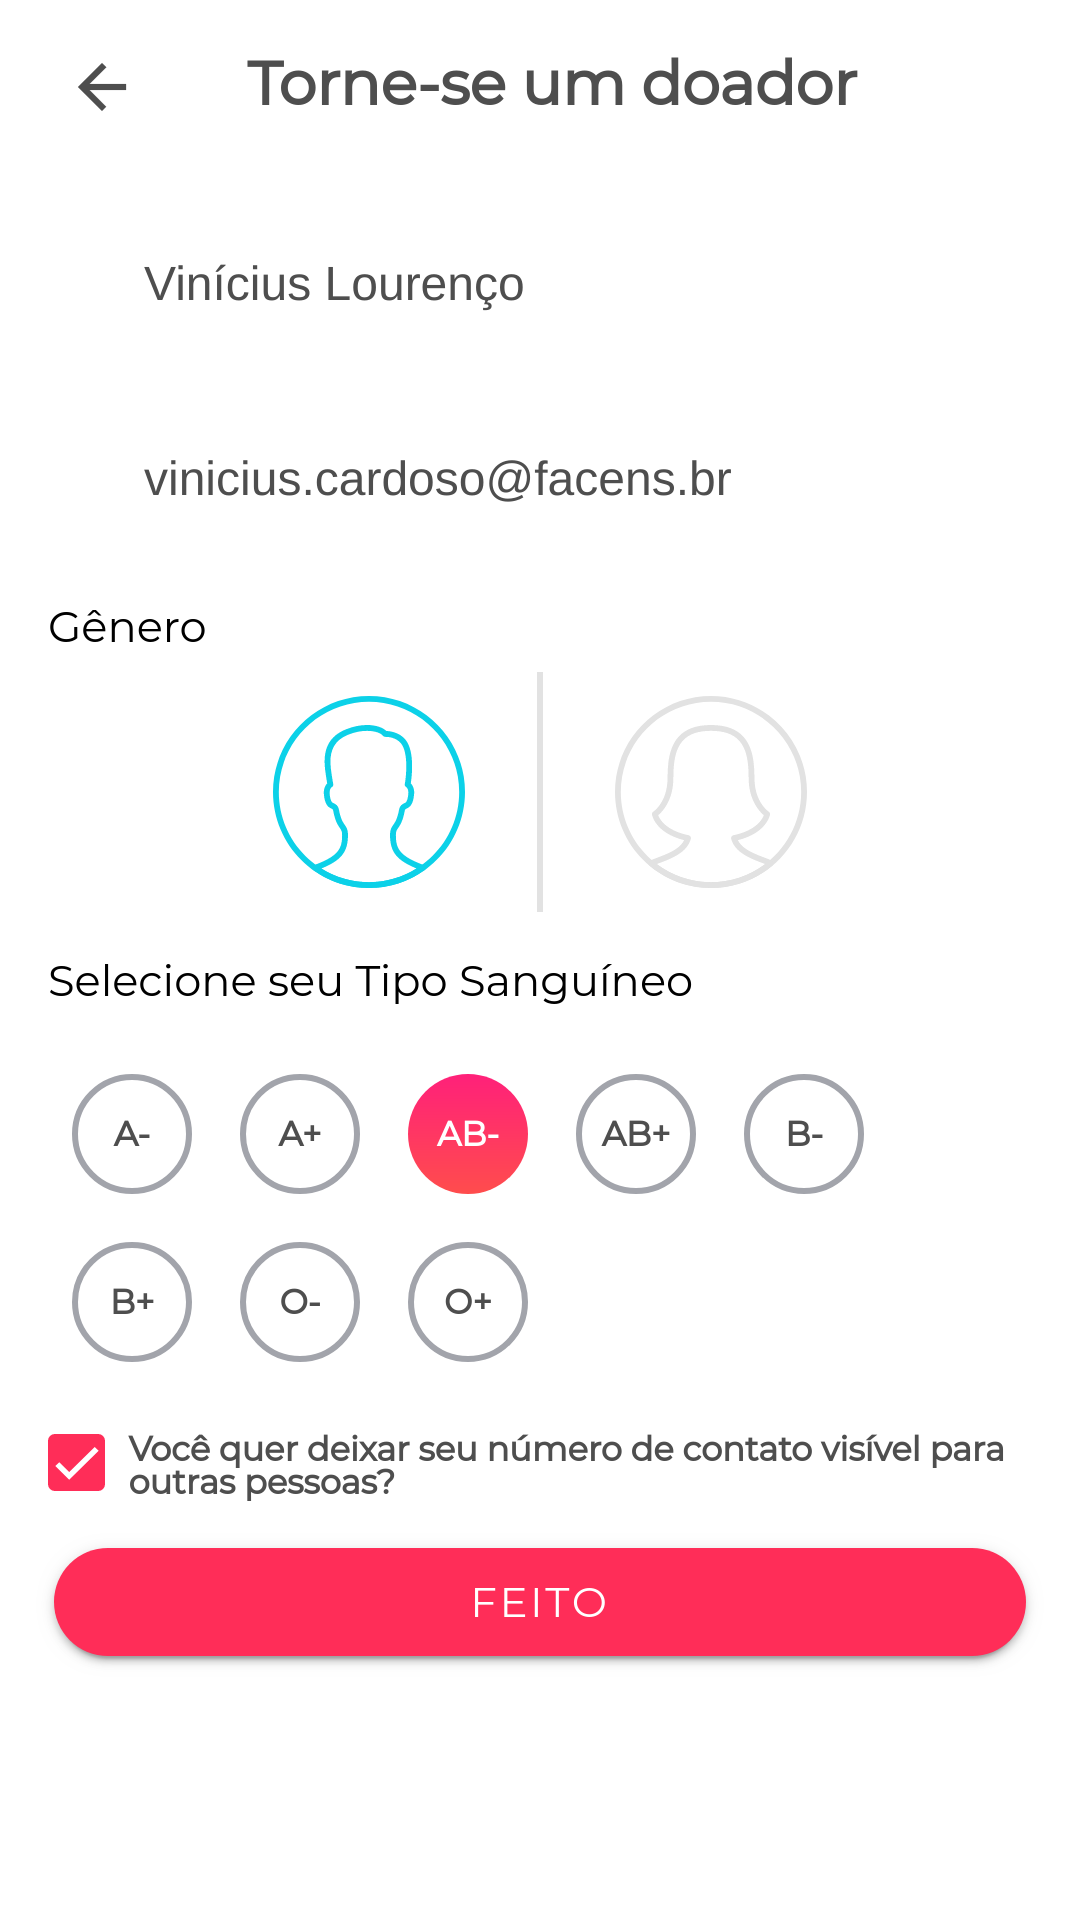
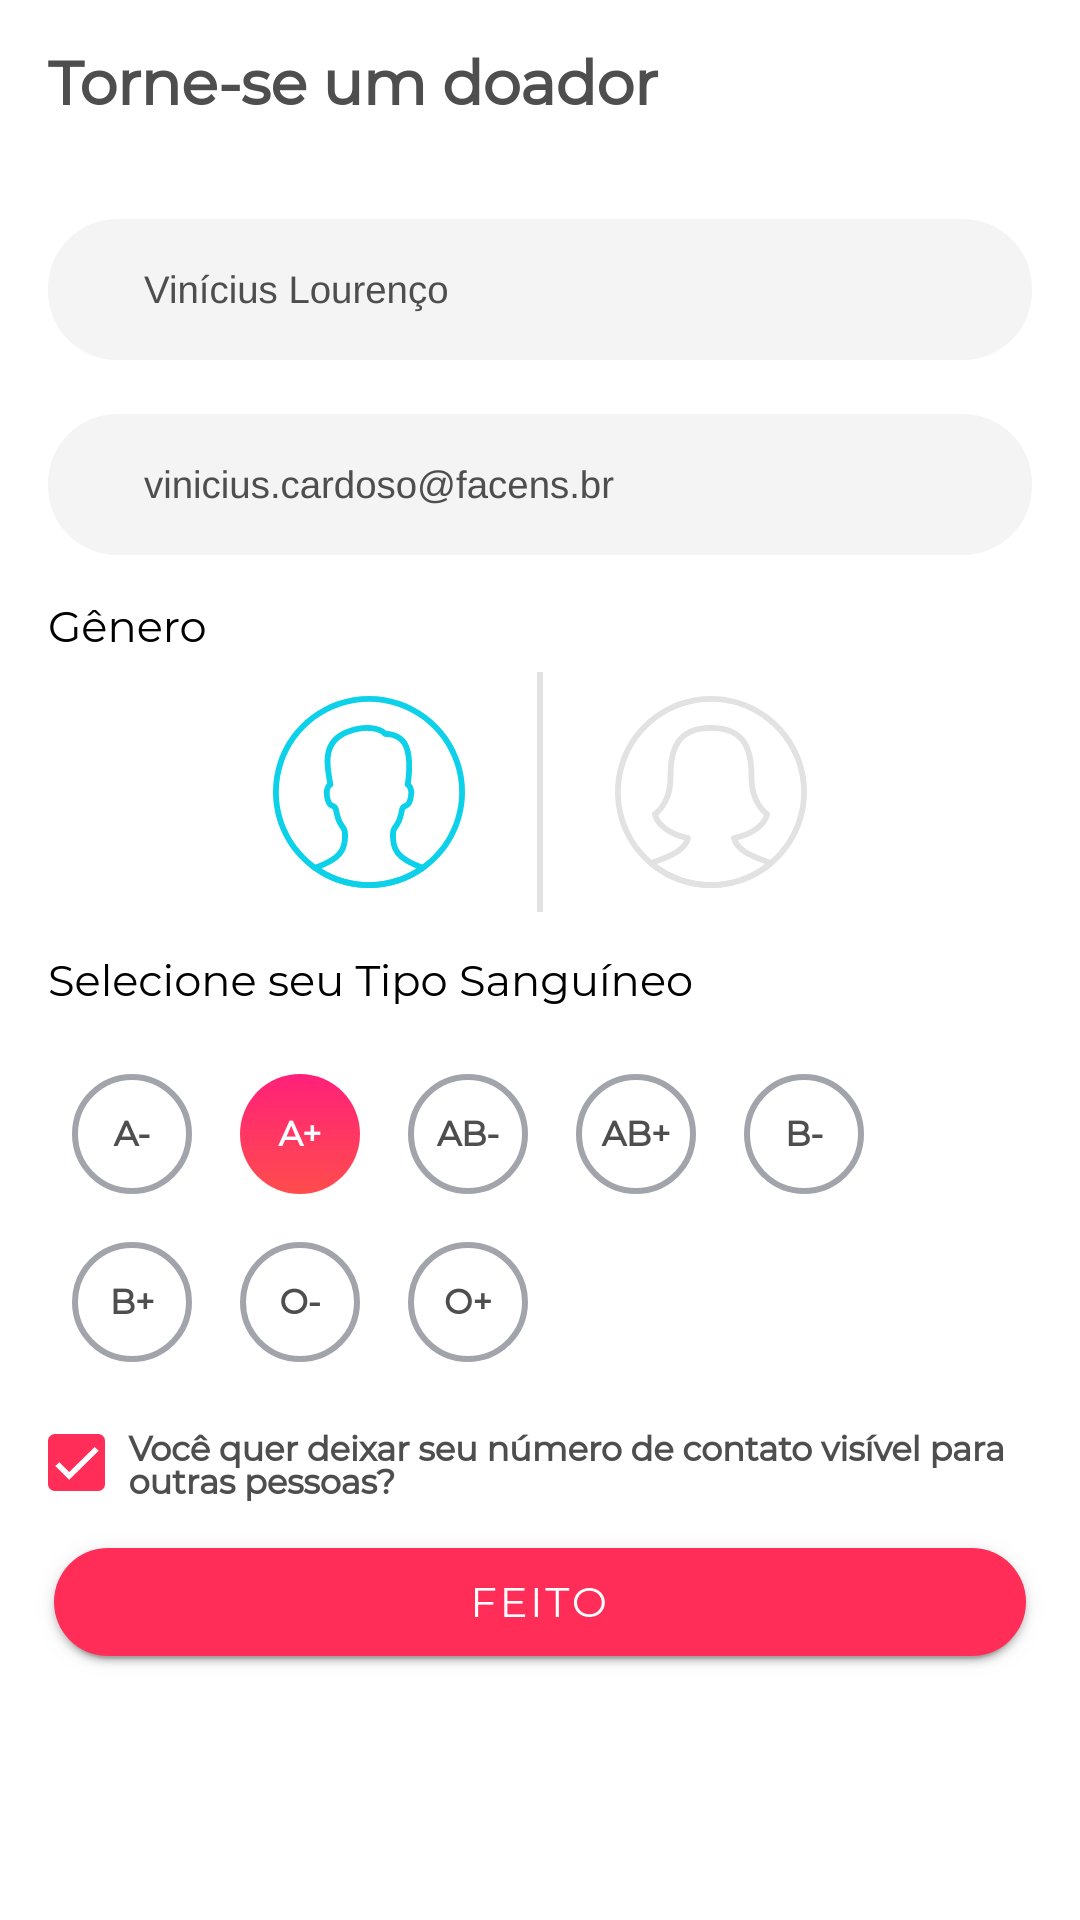
fix: specificity

diff --git a/src/global.scss b/src/global.scss
@@ -34,7 +34,7 @@ ion-item, input, ion-input {
   --color: #4e4e4e;
 }
 
-ion-input, ion-select {
+ion-item.item ion-input, ion-select {
   border-radius: 40px;
   background-color: #f4f4f4;
   --padding-start: 32px !important;
